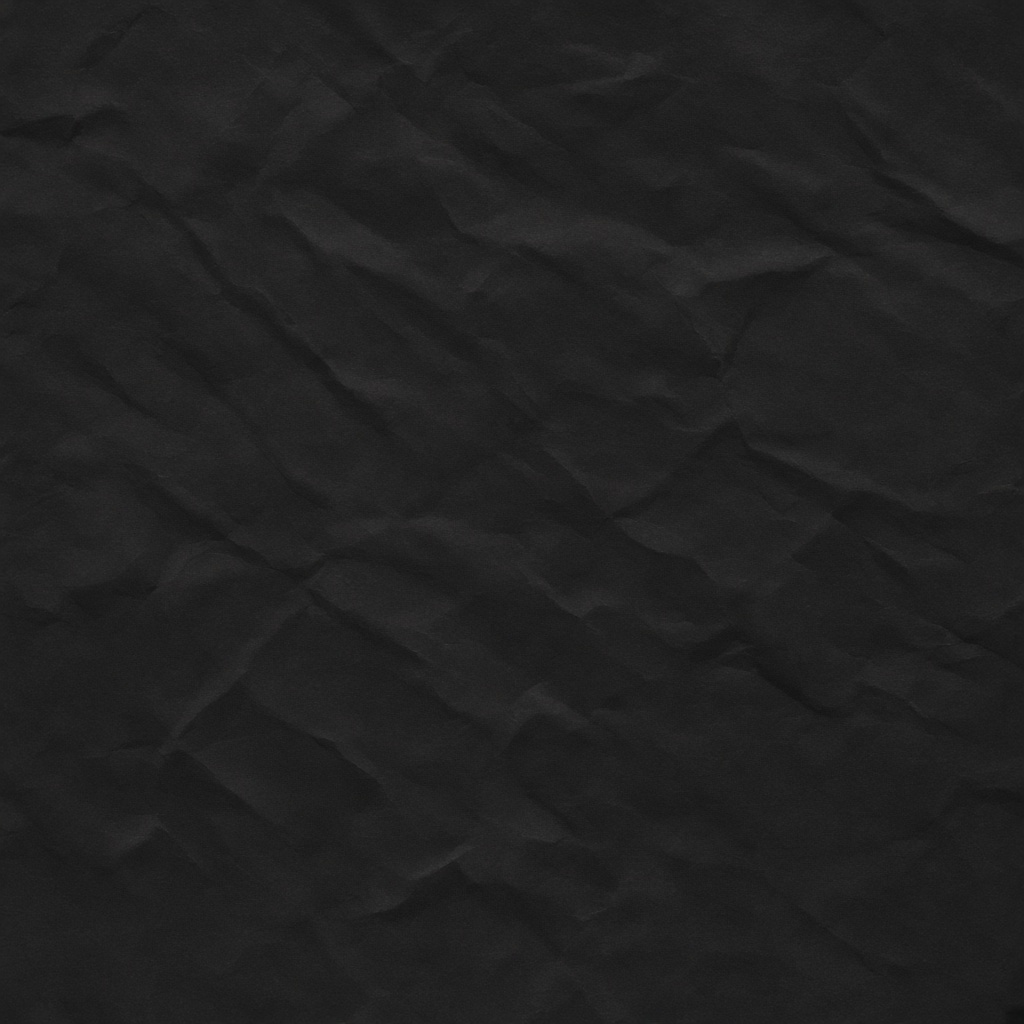
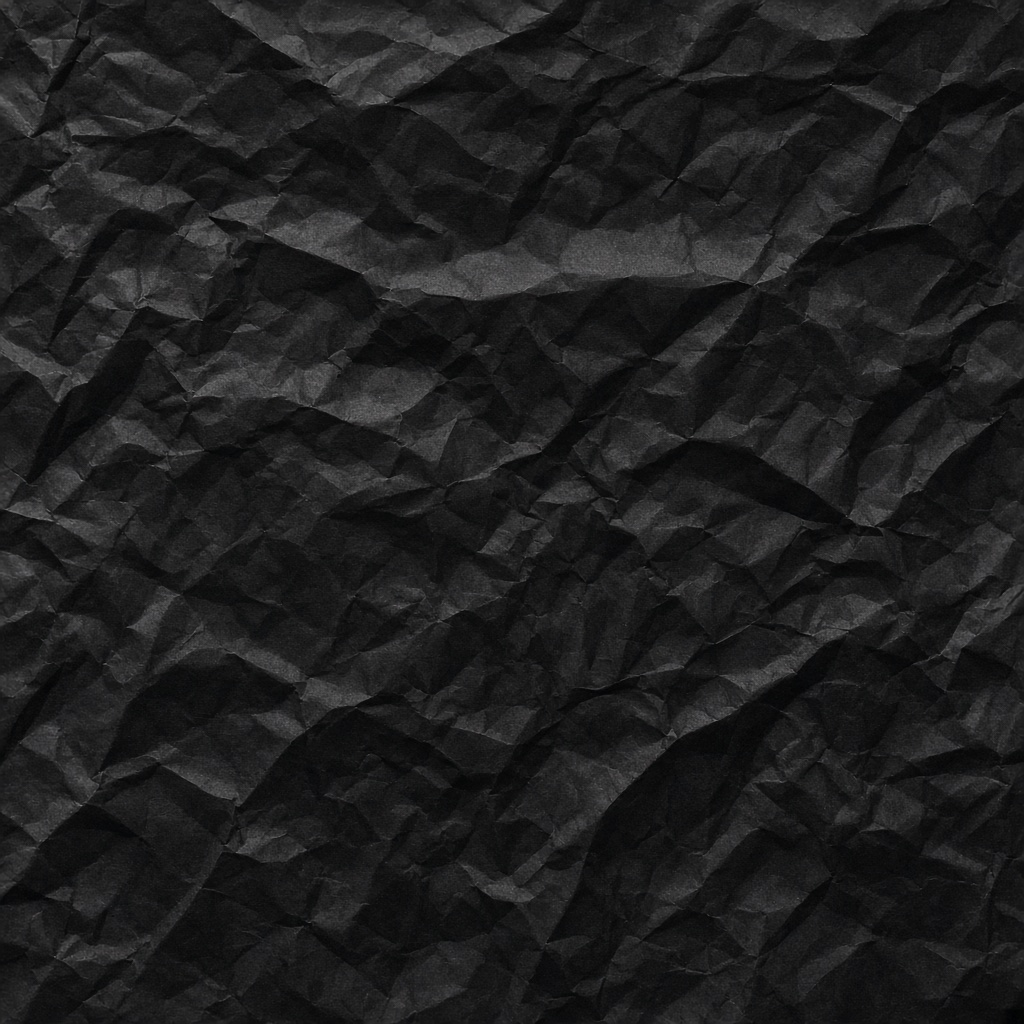
Make the hero paper obvious and set the copy as cut-paper strips.
Replace the too-subtle wrapping field with a clearly crinkled black poster
sheet, and collage Voronyz Engineering / 3D Printed Footwear / Shaped
around your foot as cream cut-paper labels around the foot poster.

diff --git a/web/src/app/globals.css b/web/src/app/globals.css
@@ -148,22 +148,22 @@ video {
 }
 
 .hero-wrapping {
-  background-color: #050505;
+  background-color: #0a0a0a;
 }
 
-/* One sheet of black wrapping paper — a little crinkled, no hard tile seams. */
+/* Crinkled black poster paper — full-opacity sheet so the folds are obvious. */
 .hero-wrapping::before {
   content: "";
   position: absolute;
   inset: 0;
   pointer-events: none;
   z-index: 0;
+  background-color: #0a0a0a;
   background-image: url("/graphics/black-wrapping-paper.jpg");
   background-size: cover;
-  background-position: center 28%;
+  background-position: center 30%;
   background-repeat: no-repeat;
-  opacity: 0.78;
-  filter: contrast(1.22) brightness(1.2) saturate(0.75);
+  filter: contrast(1.28) brightness(1.3);
 }
 
 .hero-wrapping::after {
@@ -172,9 +172,87 @@ video {
   inset: 0;
   pointer-events: none;
   z-index: 0;
+  /* Soft vignette only — keep the paper texture visible. */
   background:
-    radial-gradient(ellipse 78% 52% at 50% 16%, rgb(0 0 0 / 0.1), transparent 68%),
-    linear-gradient(180deg, rgb(0 0 0 / 0.16), transparent 38%, rgb(0 0 0 / 0.38));
+    radial-gradient(ellipse 70% 55% at 50% 35%, transparent 50%, rgb(0 0 0 / 0.22) 100%);
+}
+
+/* Cut-paper collage labels around the foot poster. */
+.cut-paper-strip {
+  display: inline-block;
+  width: fit-content;
+  max-width: 100%;
+  margin: 0;
+  padding: 0.55rem 0.85rem;
+  color: #141414;
+  background-color: #f3efe6;
+  background-image: url("/graphics/cut-paper-fill.jpg");
+  background-size: cover;
+  background-position: center;
+  /* Slightly uneven scissors edge so strips read as cut paper, not UI chips. */
+  clip-path: polygon(
+    0.6% 3%,
+    3% 0.4%,
+    97.5% 1.2%,
+    100% 4%,
+    99.2% 96.5%,
+    96.8% 100%,
+    2.4% 98.8%,
+    0% 95.5%
+  );
+  box-shadow:
+    0 1px 0 rgb(255 255 255 / 0.4) inset,
+    4px 5px 0 rgb(0 0 0 / 0.78),
+    0 16px 24px rgb(0 0 0 / 0.3);
+  border: 0;
+  transform-origin: center;
+  opacity: 0;
+  animation: cut-paper-settle 760ms cubic-bezier(0.22, 1, 0.36, 1) both;
+}
+
+.cut-paper-strip--eyebrow {
+  font-size: 0.7rem;
+  font-weight: 600;
+  letter-spacing: 0.18em;
+  text-transform: uppercase;
+  padding: 0.45rem 0.7rem;
+  animation-delay: 80ms;
+}
+
+.cut-paper-strip--title {
+  font-size: clamp(1.65rem, 4.2vw, 2.75rem);
+  font-weight: 700;
+  line-height: 1.05;
+  letter-spacing: -0.03em;
+  padding: 0.55rem 0.9rem 0.6rem;
+  animation-delay: 160ms;
+}
+
+.cut-paper-strip--caption {
+  font-size: clamp(0.95rem, 2.2vw, 1.15rem);
+  font-weight: 600;
+  letter-spacing: -0.01em;
+  padding: 0.5rem 0.8rem;
+  animation-delay: 240ms;
+}
+
+.cut-paper-strip--tilt-left {
+  --cut-tilt: -2.4deg;
+}
+
+.cut-paper-strip--tilt-right {
+  --cut-tilt: 2.1deg;
+}
+
+@keyframes cut-paper-settle {
+  from {
+    opacity: 0;
+    transform: translateY(8px) rotate(var(--cut-tilt, 0deg)) scale(0.98);
+  }
+  to {
+    opacity: 1;
+    transform: translateY(0) rotate(var(--cut-tilt, 0deg)) scale(1);
+  }
 }
 
 .bg-texture-white {
@@ -676,8 +754,9 @@ html.site-dark ::selection {
 
 .foot-glow-poster-frame {
   box-shadow:
-    0 0 0 8px #0a0a0a,
-    0 0 0 9px rgb(255 255 255 / 0.1);
+    0 0 0 10px #111,
+    0 0 0 11px rgb(255 255 255 / 0.12),
+    6px 8px 0 rgb(0 0 0 / 0.55);
 }
 
 @media (prefers-reduced-motion: reduce) {
@@ -686,7 +765,17 @@ html.site-dark ::selection {
     opacity: 0.32;
   }
 
-  .foot-glow-poster-card {
+  .foot-glow-poster-card,
+  .cut-paper-strip {
     animation: none;
+    opacity: 1;
+  }
+
+  .cut-paper-strip--tilt-left {
+    transform: rotate(-2.4deg);
+  }
+
+  .cut-paper-strip--tilt-right {
+    transform: rotate(2.1deg);
   }
 }

diff --git a/web/src/app/page.tsx b/web/src/app/page.tsx
@@ -40,18 +40,27 @@ export default function Home() {
   return (
     <div className="relative">
       <section className="hero-stage hero-wrapping relative overflow-hidden">
-        <FootGlowSection hero />
+        <div className="hero-cut-paper relative z-[1] mx-auto flex w-full max-w-5xl flex-col items-center gap-5 px-5 pb-12 pt-8 sm:gap-6 sm:px-8 sm:pb-14 sm:pt-10 md:block md:min-h-[34rem] md:px-10 md:pb-16 md:pt-12">
+          <p className="cut-paper-strip cut-paper-strip--eyebrow cut-paper-strip--tilt-left self-start md:absolute md:left-8 md:top-10 lg:left-12">
+            Voronyz Engineering
+          </p>
 
-        <div className="relative z-[1] mx-auto max-w-7xl px-4 pb-10 pt-6 sm:px-6 sm:pb-12 sm:pt-8 lg:px-8">
-          <div className="w-full max-w-xl space-y-3 sm:space-y-4">
-            <p className="uppercase tracking-[0.18em] text-[11px] sm:text-xs font-medium text-neutral-300">
-              Voronyz Engineering
-            </p>
-
-            <h1 className="text-3xl xs:text-4xl sm:text-5xl md:text-6xl font-semibold leading-[1.08] sm:leading-[1.1] tracking-tight text-white">
-              3D Printed<br className="hidden sm:block" /> Footwear
-            </h1>
+          <div className="w-[15.5rem] shrink-0 sm:w-[18rem] md:absolute md:left-1/2 md:top-[46%] md:w-[20.5rem] md:-translate-x-1/2 md:-translate-y-1/2">
+            <FootGlowSection hero />
           </div>
+
+          <h1 className="flex flex-col items-start gap-2 self-start md:absolute md:bottom-16 md:left-8 lg:left-12">
+            <span className="cut-paper-strip cut-paper-strip--title cut-paper-strip--tilt-left">
+              3D Printed
+            </span>
+            <span className="cut-paper-strip cut-paper-strip--title cut-paper-strip--tilt-right">
+              Footwear
+            </span>
+          </h1>
+
+          <p className="cut-paper-strip cut-paper-strip--caption cut-paper-strip--tilt-right self-start md:absolute md:right-8 md:top-[48%] md:-translate-y-1/2 lg:right-12">
+            Shaped around your foot
+          </p>
         </div>
       </section>
 

diff --git a/web/src/app/globals-hex-dark.test.ts b/web/src/app/globals-hex-dark.test.ts
@@ -34,7 +34,10 @@ test("top glow hero sits on lightly crinkled black wrapping paper", () => {
   assert.ok(paper, "expected wrapping paper on the hero field");
   assert.match(paper[0], /black-wrapping-paper\.jpg/);
   assert.match(paper[0], /background-size:\s*cover/);
-  assert.match(paper[0], /background-repeat:\s*no-repeat/);
+  assert.match(home, /cut-paper-strip/);
+  assert.match(home, /Shaped around your foot/);
+  assert.match(css, /\.cut-paper-strip \{/);
+  assert.match(css, /cut-paper-fill\.jpg/);
   assert.doesNotMatch(css, /#ff4d6d/);
 });
 
@@ -74,8 +77,8 @@ test("hero stage has no colorful Voronoi topology behind the GIF", () => {
 });
 
 test("homepage top glow is poster-sized instead of full-bleed", () => {
-  const footGlow = readFileSync(join(dir, "../components/FootGlowSection.tsx"), "utf8");
-  assert.match(footGlow, /max-w-\[15\.5rem\]/);
-  assert.doesNotMatch(footGlow, /max-w-\[64rem\]/);
+  assert.match(home, /w-\[15\.5rem\]/);
+  assert.match(home, /md:w-\[20\.5rem\]/);
+  assert.doesNotMatch(home, /max-w-\[64rem\]/);
   assert.match(css, /\.foot-glow-hero-frame \.foot-glow-layer \{[\s\S]*?object-fit:\s*contain/);
 });

diff --git a/web/src/components/FootGlowSection.tsx b/web/src/components/FootGlowSection.tsx
@@ -65,15 +65,8 @@ export default function FootGlowSection({
 
   if (hero) {
     return (
-      <div
-        aria-hidden
-        className={`pointer-events-none relative z-[1] ${className}`}
-      >
-        <div className="mx-auto flex w-full max-w-7xl justify-center px-6 pt-8 sm:px-8 sm:pt-10 md:pt-12">
-          <div className="w-full max-w-[15.5rem] sm:max-w-[18rem] md:max-w-[20.5rem]">
-            <div className="foot-glow-poster-card">{artwork}</div>
-          </div>
-        </div>
+      <div aria-hidden className={`pointer-events-none w-full ${className}`}>
+        <div className="foot-glow-poster-card">{artwork}</div>
       </div>
     );
   }
